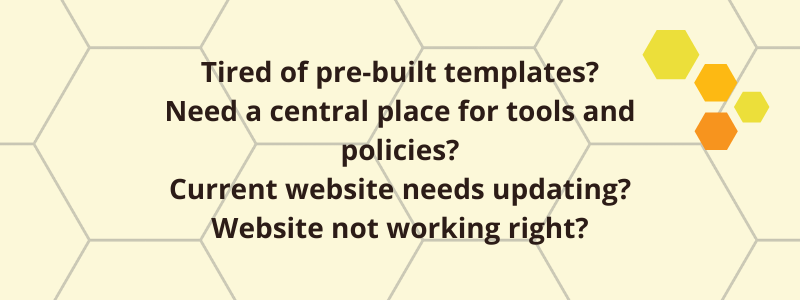
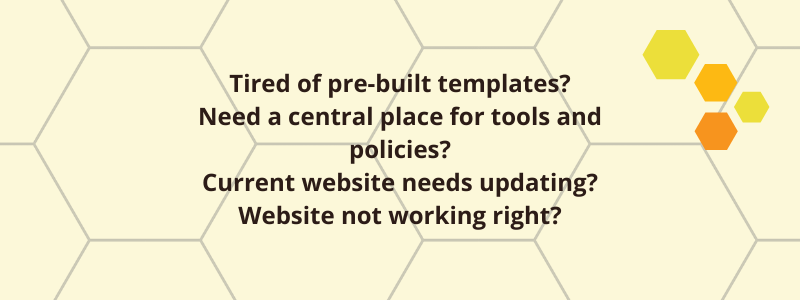
more updates

Changed region(s): [[0.1875, 0.18, 0.8125, 0.81]]

diff --git a/src/App.js b/src/App.js
@@ -3,12 +3,12 @@ import { Route, Link, Switch } from "react-router-dom";
 import './css/App.css';
 import beelogo from './images/beelogo.jpg';
 import beedev from './images/beedev.png';
+import github from './images/github.png';
+import linkedin from './images/linkedin.png';
 import Home from './components/Home';
 import Team from './components/Team';
 import Contact  from './components/Contact';
 import WebServices from './components/WebServices';
-// import ItServices from './components/ItServices';
-// import RepairServices from './components/RepairServices';
 
 export default function App() {
     //<!--Start of Tawk.to Script-->
@@ -34,8 +34,6 @@ export default function App() {
           <Link to="/team">The Team</Link>
           <Link to="/contact">Contact</Link>
           <Link to="/web-services">Web Services</Link>
-          {/* <Link to="/it-services">IT Services</Link> */}
-          {/* <Link to="/repair-services">Repair Services</Link> */}
         </div>
       </nav>
       <Switch>
@@ -48,18 +46,19 @@ export default function App() {
           <Route path="/web-services">
             <WebServices />
           </Route>
-          {/* <Route path="/it-services">
-            <ItServices />
-          </Route> */}
-          {/* <Route path="/repair-services">
-            <RepairServices />
-          </Route> */}
           <Route path="/" component={Home} />
         </Switch>
       <div className="footer">
-      <img src={beelogo} alt="" />
-        <h4>Located in Columiba County, PA</h4>
-        <h4>Created by BeeDev Services &copy; 2020</h4>
+        <div className="icons">
+          <img src={beelogo} alt="" />
+          <a href="https://github.com/beedev-services"><img src={github} alt="github" className="social" /></a>
+          <a href="https://www.linkedin.com/in/melissa-longenberger/"><img src={linkedin} alt="linkedin" className="social" /></a>
+        </div>
+        <div className="madeby">
+          <h4>Created by BeeDev Services &copy; 2020</h4>
+          <h4>Located in Columbia County, PA</h4>
+          <h4>Phone 570-221-9892</h4>
+        </div>
       </div>
     </div>
   );

diff --git a/src/css/App.css b/src/css/App.css
@@ -343,18 +343,34 @@ body {
 }
 .App .footer {
   display: flex;
-  flex-direction: column;
-  justify-content: center;
+  flex-direction: row;
   align-items: center;
   background-color: #a6a267;
   border: 4px groove #a6a267;
   margin-bottom: 3em;
+  justify-content: center;
 }
-.App .footer img {
+.App .footer .icons {
+  display: flex;
+  flex-direction: column;
+  justify-content: center;
+  align-items: center;
+}
+.App .footer .icons img {
   width: 2em;
-  margin: 0.2em;
+  margin: 0.5em;
 }
-.App .footer h4 {
+.App .footer .icons .social {
+  width: 1.4em;
+  border-radius: 50%;
+}
+.App .footer .madeby {
+  display: flex;
+  flex-direction: column;
+  justify-content: center;
+  align-items: center;
+}
+.App .footer .madeby h4 {
   font-weight: 200;
   color: #fcf8d9;
   padding: 0.5em;
@@ -398,10 +414,11 @@ body {
     justify-content: center;
   }
   .App .main-wrapper .content .home-header #heading {
-    width: 45%;
+    width: 35%;
   }
   .App .main-wrapper .content .home-header #questions {
-    width: 45%;
+    width: 35%;
+    margin-top: 0;
   }
   .App .main-wrapper .content .section .packages .the-items {
     display: flex;

diff --git a/src/components/Home.jsx b/src/components/Home.jsx
@@ -22,8 +22,12 @@ function Home() {
                     <img src={Questions} alt="Questions" id="questions" />
                 </div>
                 <div>
-                <h2 className="home-answer">BeeDev Services has solutions!</h2>
-                    <p>In nature a Bee Hive is the work of a colony of bees.  Thats BeeDev Services works.  We want to work WITH YOU.  We take that hive mentality personally.  We have the skills and the time to create websites, but you have ideas and know about your business.  Together we can create, build, update, and even fix your website.</p>
+                <h2 className="home-answer">
+                    BeeDev Services has solutions!
+                </h2>
+                <p>
+                    In nature a Bee Hive is the work of a colony of bees.  Thats BeeDev Services works.  We want to work WITH YOU.  We take that hive mentality personally.  We have the skills and the time to create websites, but you have ideas and know about your business.  Together we can create, build, update, and even fix your website.
+                </p>
                 </div>
             </div>
         </div>

diff --git a/src/css/App.less b/src/css/App.less
@@ -166,19 +166,30 @@
         }
     }
     .footer {
-        .flexcolumn();
+        .flexrow();
         background-color: @alt;
         border: @altborder;
         margin-bottom: 3em;
+        justify-content: center;
 
-        img {
-            width: 2em;
-            margin: .2em;
+        .icons {
+            .flexcolumn();
+            img {
+                width: 2em;
+                margin: .5em;
+            }
+            .social {
+                width: 1.4em;
+                border-radius: 50%;
+            }
         }
-        h4 {
-            font-weight: 200;
-            color: @mainbg;
-            padding: .5em;
+        .madeby {
+            .flexcolumn();
+            h4 {
+                font-weight: 200;
+                color: @mainbg;
+                padding: .5em;
+            }
         }
     }
 }

diff --git a/src/css/less/media.less b/src/css/less/media.less
@@ -74,10 +74,11 @@
                     justify-content: center;
     
                     #heading {
-                        width: 45%;
+                        width: 35%;
                     }
                     #questions {
-                        width: 45%;
+                        width: 35%;
+                        margin-top: 0;
                     }
                 }
                 .section {

diff --git a/src/css/less/media.css b/src/css/less/media.css
@@ -55,10 +55,11 @@
     justify-content: center;
   }
   .App .main-wrapper .content .home-header #heading {
-    width: 45%;
+    width: 35%;
   }
   .App .main-wrapper .content .home-header #questions {
-    width: 45%;
+    width: 35%;
+    margin-top: 0;
   }
   .App .main-wrapper .content .section .packages .the-items {
     display: flex;

diff --git a/src/components/wording.md b/src/components/wording.md
@@ -1,6 +1,18 @@
-<p>
-                        BeeDev Services is a Veteran owned small business, with the idea of helping other small businesses.
-                    </p>
-                    <p>
-                    We take the hive mentality personally.  Just because we have the skills to build a website or set up a network doesn't mean you don't have ideas on what you want.  We welcome - in fact we insist that you are part of the process.
-                    </p>
+
+BeeDev Services is a Veteran owned small business, with the idea of helping other small businesses.
+
+We take the hive mentality personally.  Just because we have the skills to build a website or set up a network doesn't mean you don't have ideas on what you want.  We welcome - in fact we insist that you are part of the process.
+
+Develop - No 2 hives are alike, and the same goes for businesses.  Let us build a hive that is unique to your business needs.  Together we will create smooth unique websites that meet your companies needs.  From Customer facing websites showing off what you have to offer the world to internal websites that allow you and your employees to focus on their jobs and have the information they need in 1 central location we can take the stress of getting it done of your shoulders
+
+Maintain - Keeping your site up to date doesn't have to be something you need to worry about.  We are here to help with that.  We offer several ways to help you.  We excel at making sure that your websites are running their best.  Just need a few changes to your site?  We got your back there to we have packages to check in from a monthly basis on up to yearly.  
+
+Repair - Something not working?  Not to worry our worker bees are here to help.  We can get you back up and running.
+
+At BeeDev Services we pride ourselves in honesty.  If we recommend getting a new system it's not that we can't fix it (although that can sometimes happen), it's because we feel that the cost of us fixing it would be more than getting a new one.  
+
+That doesn't mean that we will just say sorry you need a new computer and send you on your way, we will recommend what type you should get, from where we would recommend, and we can even help you get it up and running again.  
+
+We take the hive mentality personally.  Just because we have the skills to build a website or set up a network doesn't mean you don't have ideas on what you want.  We welcome - in fact we insist that you are part of the process.  
+
+Our focus may be on small businesses and entrepreneurs but that doesn't mean we don't have something for everyone. 
